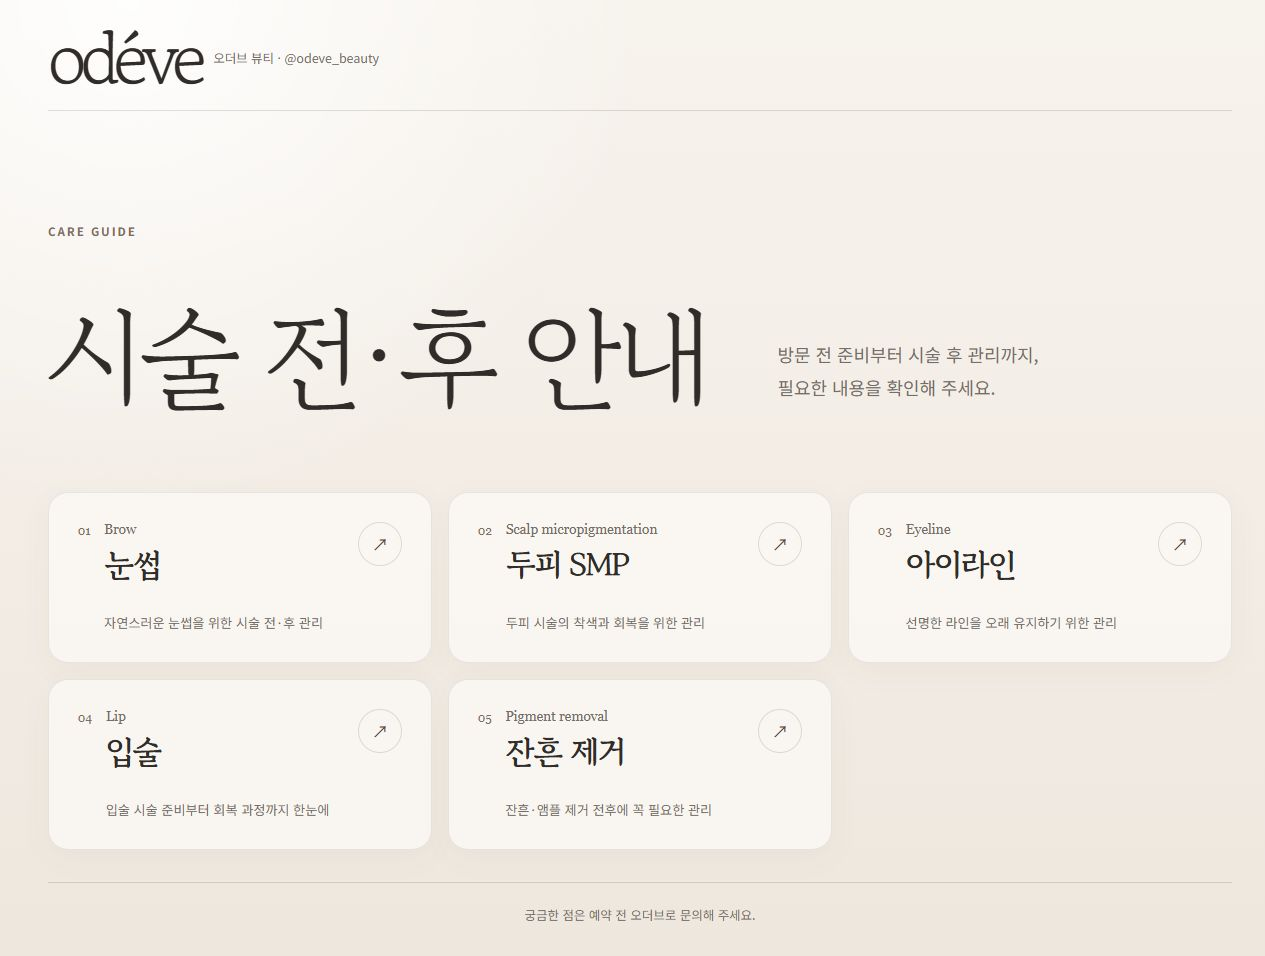
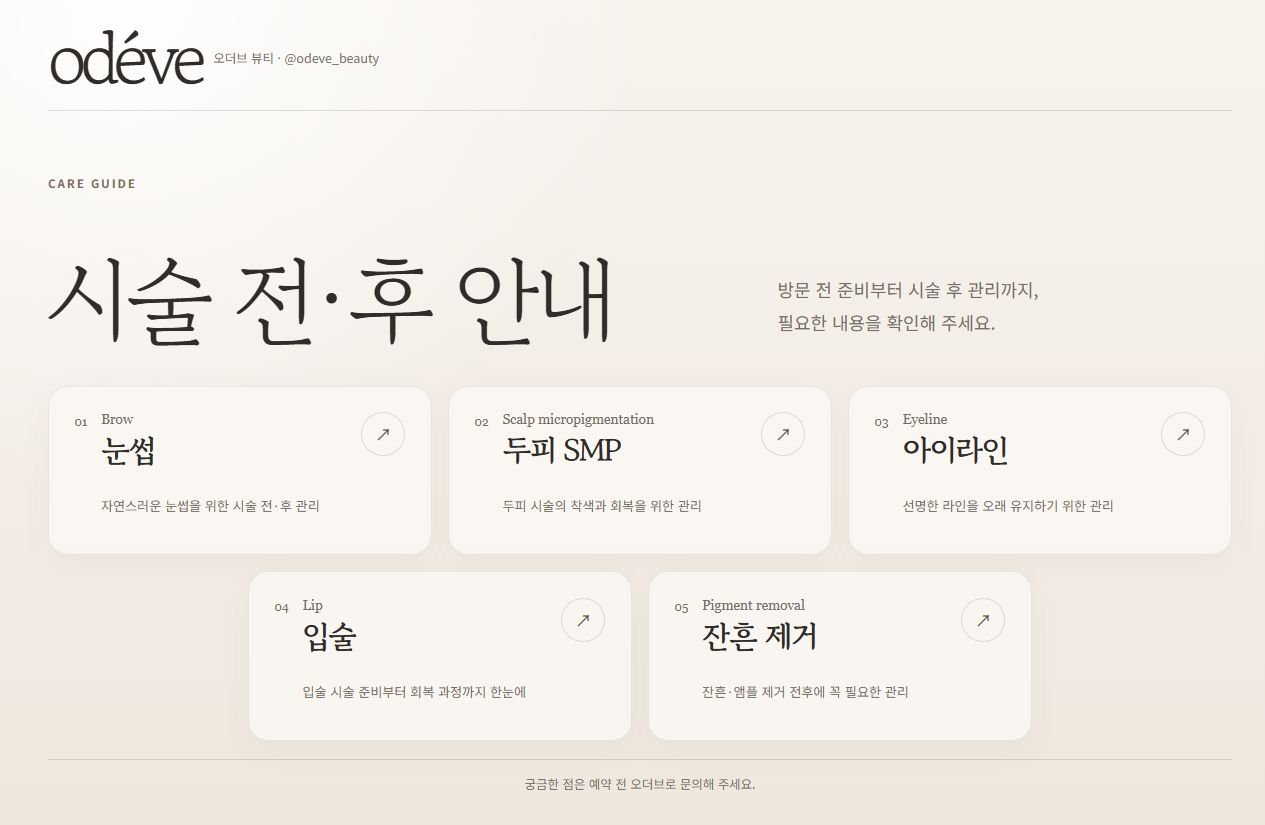
style: show all care menus at a glance

diff --git a/src/styles/global.css b/src/styles/global.css
@@ -114,7 +114,7 @@ img {
 }
 
 .home-hero {
-  padding: clamp(2.7rem, 12vw, 7rem) 0 clamp(2.5rem, 8vw, 5rem);
+  padding: clamp(1.35rem, 6vw, 2.35rem) 0 clamp(1.25rem, 5vw, 2rem);
   border-top: 1px solid var(--line);
 }
 
@@ -138,12 +138,12 @@ img {
 
 .home-hero h1 {
   max-width: 11ch;
-  font-size: clamp(2.65rem, 12vw, 7rem);
+  font-size: clamp(2.15rem, 10vw, 3.8rem);
   line-height: 1.02;
 }
 
 .home-hero__description {
-  margin: 1.5rem 0 0;
+  margin: 0.85rem 0 0;
   color: var(--muted);
   font-size: clamp(0.95rem, 3vw, 1.12rem);
   line-height: 1.85;
@@ -151,19 +151,19 @@ img {
 
 .category-grid {
   display: grid;
-  grid-template-columns: 1fr;
-  gap: 0.75rem;
+  grid-template-columns: repeat(6, minmax(0, 1fr));
+  gap: 0.55rem;
 }
 
 .category-card {
   position: relative;
-  display: grid;
+  display: flex;
   min-width: 0;
-  min-height: 10.6rem;
-  grid-template-columns: auto minmax(0, 1fr) auto;
-  align-items: start;
-  gap: 0.85rem;
-  padding: clamp(1.15rem, 4vw, 1.8rem);
+  min-height: 6.7rem;
+  grid-column: span 2;
+  align-items: center;
+  justify-content: center;
+  padding: 0.65rem 0.35rem;
   overflow: hidden;
   border: 1px solid rgba(73, 63, 56, 0.1);
   border-radius: 1.25rem;
@@ -173,7 +173,16 @@ img {
   transition: transform 180ms ease, background-color 180ms ease, box-shadow 180ms ease;
 }
 
+.category-card:nth-child(4) {
+  grid-column: 2 / span 2;
+}
+
+.category-card:nth-child(5) {
+  grid-column: 4 / span 2;
+}
+
 .category-card__number {
+  display: none;
   padding-top: 0.15rem;
   color: var(--accent);
   font-family: Georgia, serif;
@@ -184,9 +193,12 @@ img {
   display: flex;
   min-width: 0;
   flex-direction: column;
+  align-items: center;
+  text-align: center;
 }
 
 .category-card__english {
+  display: none;
   margin-bottom: 0.25rem;
   overflow: hidden;
   color: var(--muted);
@@ -198,11 +210,14 @@ img {
 
 .category-card strong {
   font-family: 'Gowun Batang', Georgia, serif;
-  font-size: clamp(1.45rem, 6vw, 2rem);
+  font-size: clamp(1.02rem, 4.7vw, 1.35rem);
   letter-spacing: -0.05em;
+  line-height: 1.25;
+  word-break: keep-all;
 }
 
 .category-card__description {
+  display: none;
   margin-top: auto;
   padding-top: 1.6rem;
   color: var(--muted);
@@ -212,7 +227,7 @@ img {
 }
 
 .category-card__arrow {
-  display: grid;
+  display: none;
   width: 44px;
   height: 44px;
   place-items: center;
@@ -240,8 +255,8 @@ img {
 }
 
 .home-note {
-  margin: 2rem 0 0;
-  padding: 1.4rem 0 0;
+  margin: 1.15rem 0 0;
+  padding: 0.9rem 0 0;
   border-top: 1px solid var(--line);
   color: var(--muted);
   font-size: 0.78rem;
@@ -474,12 +489,8 @@ img {
   }
 
   .category-grid {
-    grid-template-columns: repeat(2, minmax(0, 1fr));
+    grid-template-columns: repeat(6, minmax(0, 1fr));
     gap: 1rem;
-  }
-
-  .category-card:last-child:nth-child(odd) {
-    grid-column: 1 / -1;
   }
 
   .guide-panel {
@@ -501,6 +512,40 @@ img {
     grid-template-columns: minmax(0, 1.2fr) minmax(20rem, 0.8fr);
     align-items: end;
     gap: 3rem;
+    padding: clamp(2.5rem, 5vw, 4rem) 0 clamp(1.5rem, 3vw, 2.5rem);
+  }
+
+  .category-card {
+    display: grid;
+    min-height: 10.6rem;
+    grid-template-columns: auto minmax(0, 1fr) auto;
+    align-items: start;
+    justify-content: initial;
+    gap: 0.85rem;
+    padding: clamp(1.15rem, 2vw, 1.8rem);
+  }
+
+  .category-card__number,
+  .category-card__english,
+  .category-card__description {
+    display: block;
+  }
+
+  .category-card__copy {
+    align-items: initial;
+    text-align: left;
+  }
+
+  .category-card strong {
+    font-size: clamp(1.45rem, 2.4vw, 2rem);
+  }
+
+  .category-card__arrow {
+    display: grid;
+  }
+
+  .home-hero h1 {
+    font-size: clamp(4rem, 7.5vw, 7rem);
   }
 
   .home-hero .eyebrow,
@@ -519,11 +564,7 @@ img {
   }
 
   .category-grid {
-    grid-template-columns: repeat(3, minmax(0, 1fr));
-  }
-
-  .category-card:last-child:nth-child(odd) {
-    grid-column: auto;
+    grid-template-columns: repeat(6, minmax(0, 1fr));
   }
 
   .guide-page {

diff --git a/docs/qa/responsive-qa.md b/docs/qa/responsive-qa.md
@@ -13,15 +13,15 @@
 
 | 화면 | 확인 페이지 | 결과 |
 | --- | --- | --- |
-| 320×568 | 홈 | 1열 카드, 가로 스크롤 없음 |
+| 320×568 | 홈 | 3개+2개 메뉴가 첫 화면 안에 표시, 가로 스크롤 없음 |
 | 360×800 | 입술 상세 | 탭 가로 스크롤, 원본 이미지 비율 유지, 가로 스크롤 없음 |
-| 390×844 | 홈 | 1열 카드, 전체 텍스트와 터치 영역 정상 |
+| 390×844 | 홈 | 3개+2개 메뉴가 첫 화면 안에 표시, 전체 터치 영역 정상 |
 | 430×932 | 입술 상세 | 탭 전환, 안내 이미지 및 확대 버튼 정상 |
-| 768×1024 | 홈 | 2열 카드, 마지막 카드 전체 너비 배치 정상 |
+| 768×1024 | 홈 | 간결한 3개+2개 메뉴, 영문명 잘림 없음 |
 | 1024×1366 | 입술 회복 과정 | 좌측 탐색·우측 세로 이미지 배치 정상 |
-| 1280×800 | 홈 | 3열 카드와 제한된 콘텐츠 폭 정상 |
+| 1280×800 | 홈 | 설명형 3개+2개 카드가 첫 화면 안에 표시 |
 
-모든 측정 화면에서 `documentElement.scrollWidth`와 `clientWidth`가 같아 페이지 수준의 가로 넘침이 없음을 확인했다. 이미지 확대 화면은 430×932에서 열기와 닫기를 확인했으며, 닫힌 뒤 dialog 요소가 0개로 복구되었다.
+홈 화면은 320×568, 390×844, 768×1024, 1024×1366, 1280×800에서 모두 정확히 두 줄로 배치되고 마지막 메뉴가 초기 화면 높이 안에 들어오는 것을 확인했다. 모든 측정 화면에서 `documentElement.scrollWidth`와 `clientWidth`가 같아 페이지 수준의 가로 넘침이 없었다. 이미지 확대 화면은 430×932에서 열기와 닫기를 확인했으며, 닫힌 뒤 dialog 요소가 0개로 복구되었다.
 
 ## 캡처
 

diff --git a/docs/superpowers/specs/2026-09-03-odeve-care-guide-design.md b/docs/superpowers/specs/2026-09-03-odeve-care-guide-design.md
@@ -20,8 +20,9 @@
 - 눈썹, 두피 SMP, 아이라인, 입술, 잔흔 제거의 다섯 카테고리를 카드로 제공한다.
 - 각 카드는 간단한 영문 표기와 포함된 안내 종류를 보여준다.
 - 320px 수준의 소형 스마트폰부터 대형 스마트폰, 폴더블, 태블릿, 데스크톱까지 고정 기기명이 아닌 가용 화면 너비를 기준으로 자연스럽게 재배치한다.
-- 좁은 화면에서는 한 열, 화면이 넓어지면 두 열 이상으로 확장하며 어느 너비에서도 가로 스크롤이 생기지 않도록 한다.
-- iPad와 Galaxy Tab 크기에서는 카드가 화면 공간에 맞춰 2~3열로 배치되고, 상세 화면은 읽기 좋은 최대 너비 안에서 중앙 정렬한다.
+- 홈의 다섯 카테고리는 첫 줄 3개, 둘째 줄 2개를 가운데 정렬하여 한 화면에서 바로 선택할 수 있게 한다.
+- 스마트폰과 태블릿에서는 메뉴명 중심의 간결한 버튼형 카드를 사용하고, 1024px 이상의 넓은 화면에서는 영문명과 설명을 포함한 카드로 확장한다.
+- iPad와 Galaxy Tab 크기에서도 3개+2개 배열을 유지하며, 상세 화면은 읽기 좋은 최대 너비 안에서 중앙 정렬한다.
 - 태블릿 가로 화면과 데스크톱에서는 탐색 영역과 이미지 영역이 지나치게 벌어지지 않도록 콘텐츠 폭을 제한한다.
 
 ### 카테고리 상세
